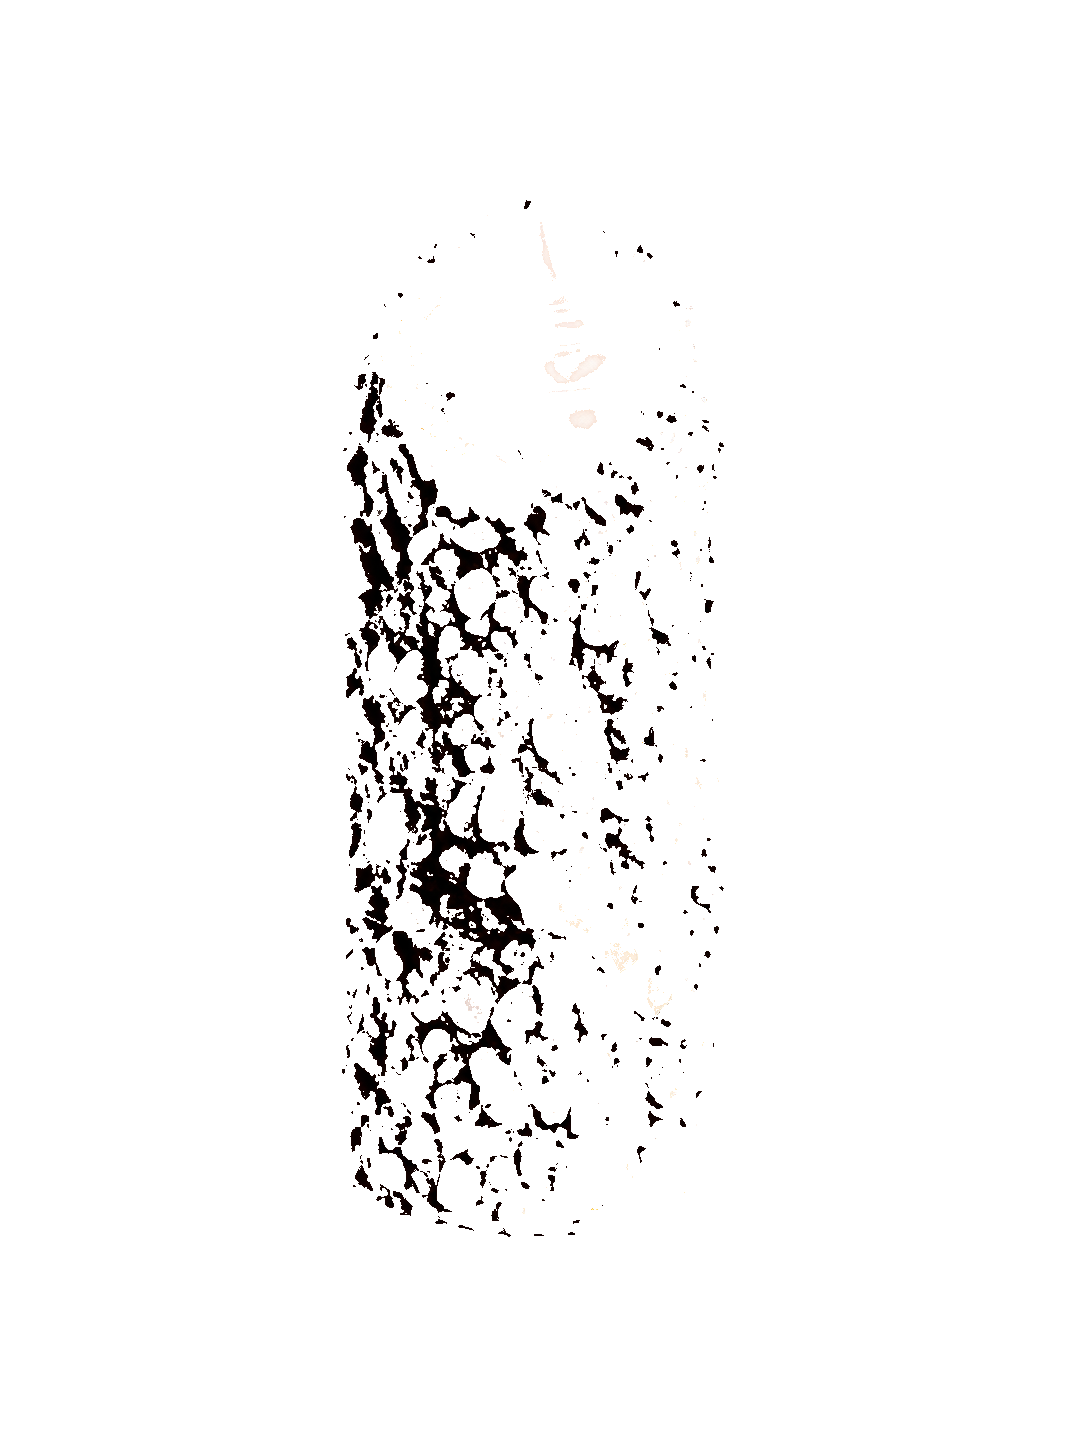
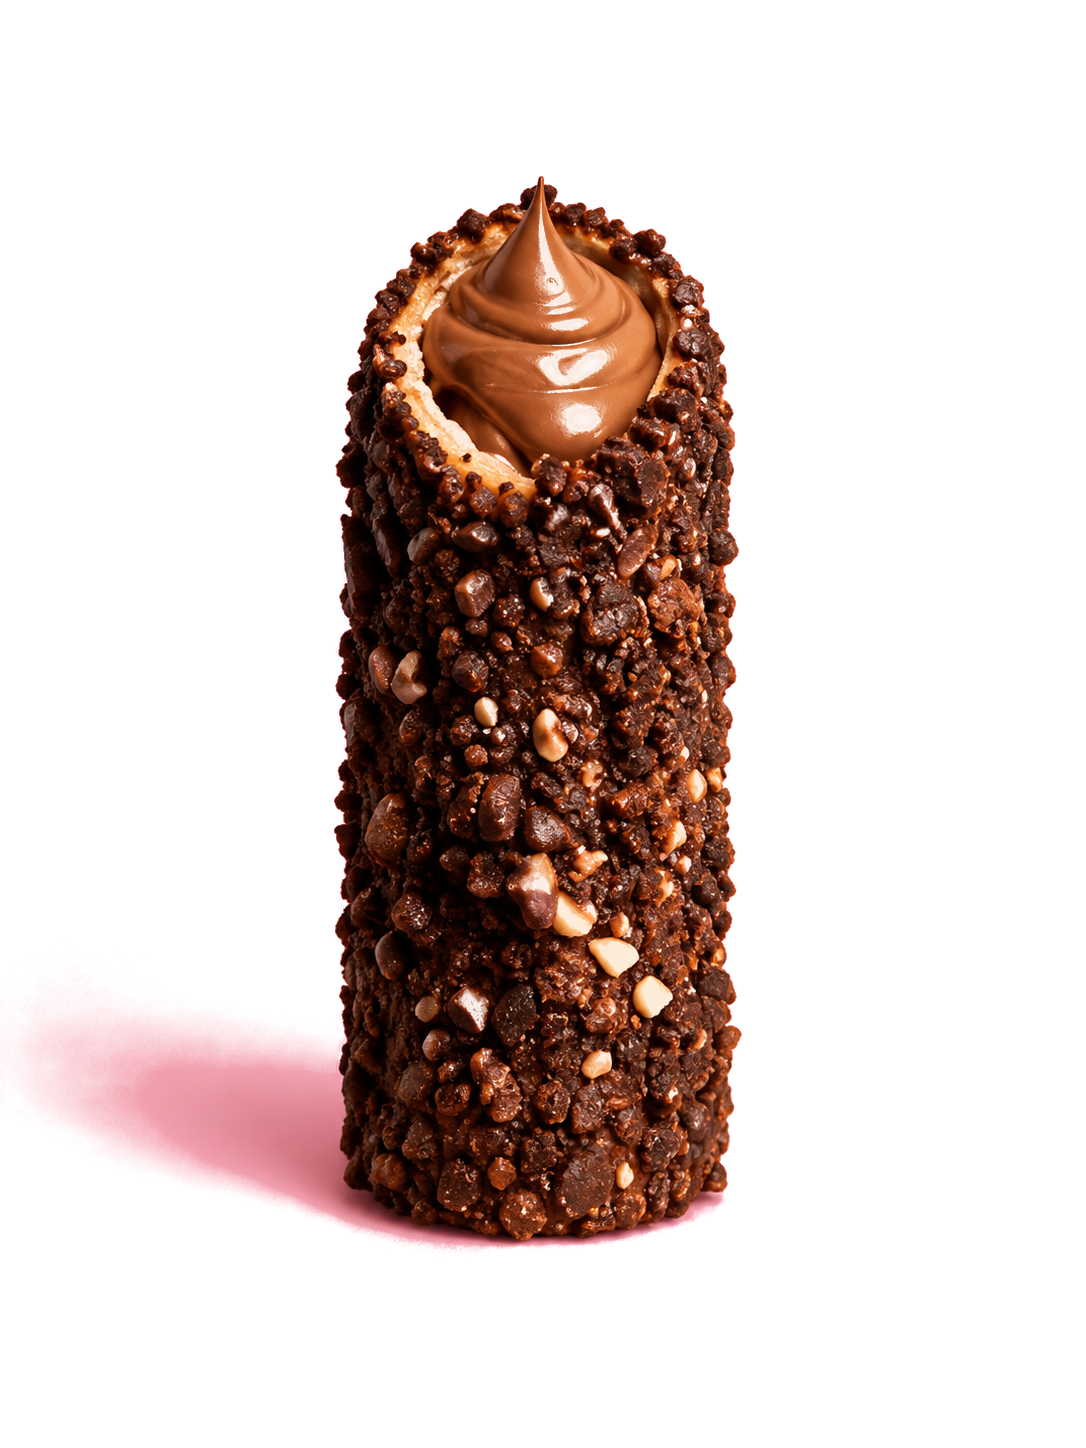
Add high resolution v3 transparent flavor images for all flavors

Changed region(s): [[0.0304, 0.1243, 0.6989, 0.8702]]

diff --git a/src/components/Flavours.tsx b/src/components/Flavours.tsx
@@ -38,7 +38,7 @@ export default function Flavours() {
       id: "strawberry_bliss",
       name: "Strawberry Bliss",
       category: "FRUIT BLENDS",
-      image: "/images/tumu/flavour_v2_new_strawberry.png",
+      image: "/images/tumu/flavour_v3_05_strawberry_bliss.png",
     },
     {
       id: "dark_chocolate",
@@ -59,10 +59,10 @@ export default function Flavours() {
       image: "/images/tumu/flavour_v2_new_mango.png",
     },
     {
-      id: "cafe_latte",
-      name: "Cafe Latte",
+      id: "biscoff_delight",
+      name: "Lotus Biscoff",
       category: "SIGNATURE",
-      image: "/images/tumu/flavour_v2_new_latte.png",
+      image: "/images/tumu/flavour_v3_03_lotus_biscoff.png",
     },
   ];
 
